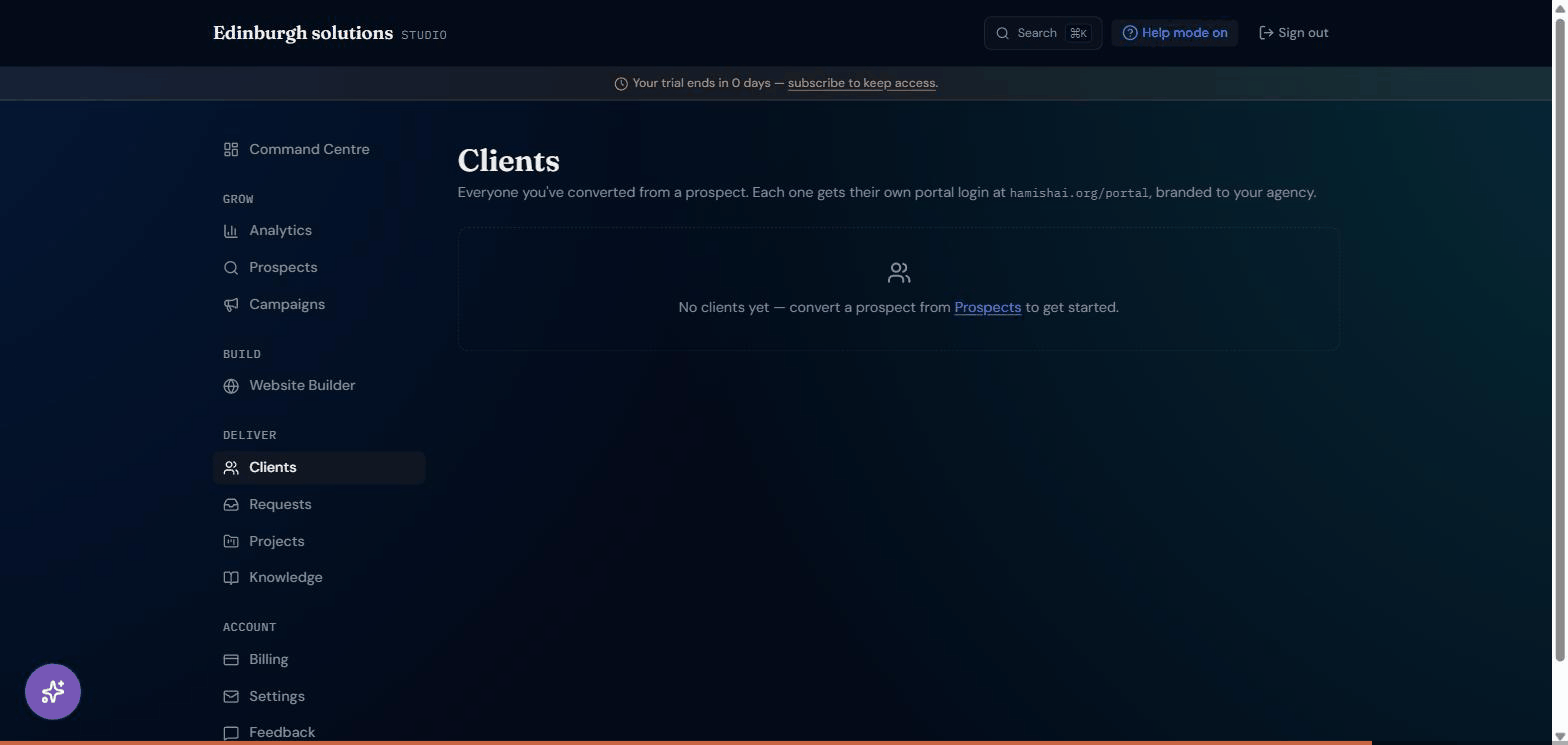
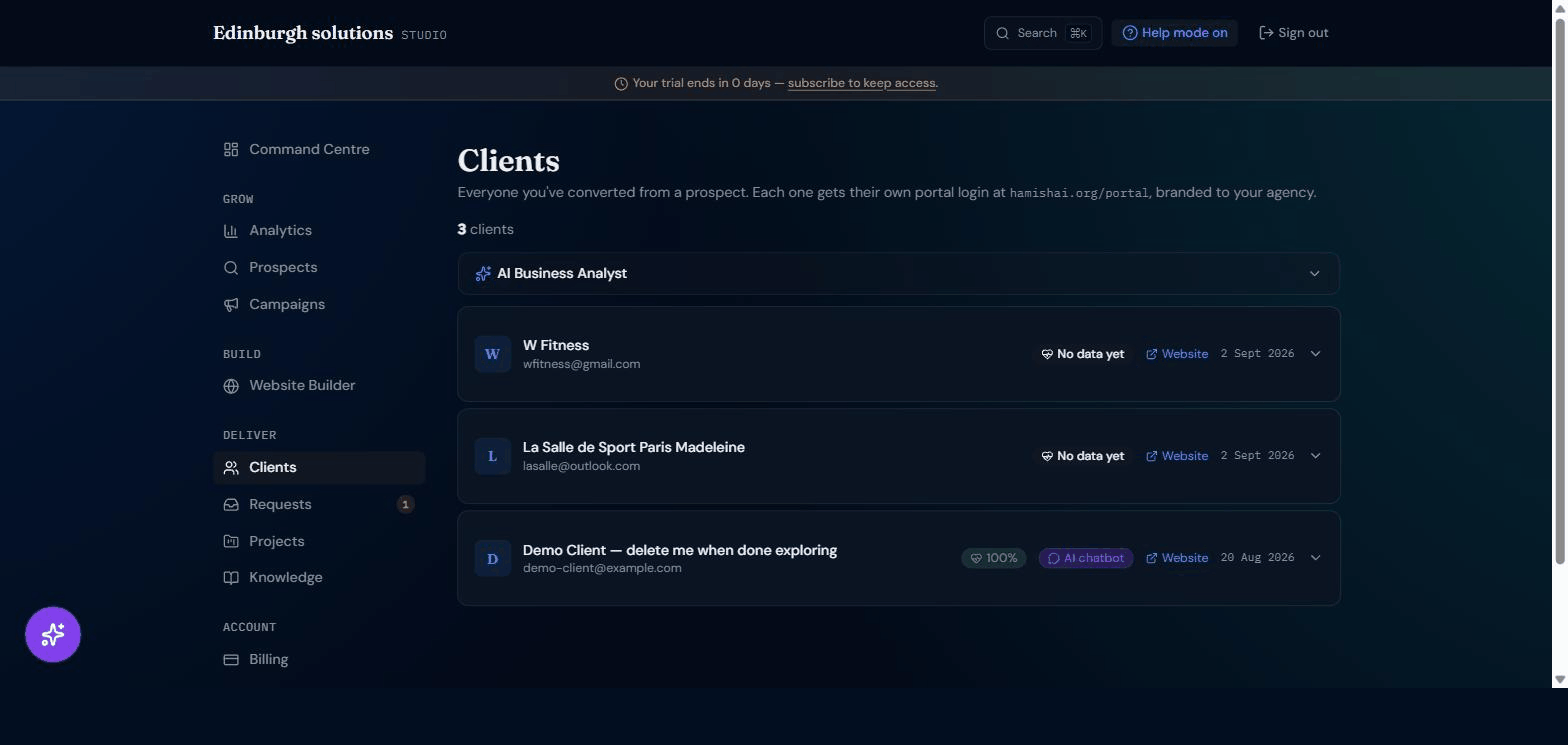
Add a real "Charge" step to the Studio tour, recapture Deliver with real data
Two changes, same root cause resolved:

1. Added "Charge" (05) — direct feedback asked for a step on charging
   clients. Captured live from the real production account: the
   per-client "Invoices" section, honestly showing "Connect Stripe in
   Settings before you can invoice this client" (the real, current state
   — Stripe Connect isn't set up for this account yet), not a staged
   connected state. Caption explains the real mechanism (own Stripe
   account, payments go straight to the tenant, never through Studio).

2. Recaptured "Deliver" (04) — its original screenshot showed Clients'
   empty state, which is exactly what a separate real bug (an RLS policy
   recursion between clients and client_members, fixed via direct SQL
   this session — see conversation, not a code change) was quietly
   causing: converted clients existed but couldn't be read back. Direct
   feedback flagged this specifically ("hesitant that our image on the
   homepage has no clients in it"). Now fixed and confirmed live, so
   this step shows the real, populated Clients list — 3 real clients,
   not an empty state.

Both new screenshots came from Claude in Chrome's real screenshot tool
(save_to_disk) reporting the wrong, inconsistent resolution twice more
this session — same known issue as the Analyse step's own commit. Used
the same proven gif_creator record → export → ffmpeg-extract pipeline
instead, but this time the captured height (688px) fell short of the
[…]

diff --git a/src/components/platform-preview/studio-tour.tsx b/src/components/platform-preview/studio-tour.tsx
@@ -2,7 +2,7 @@
 
 import { useState } from "react";
 import Image from "next/image";
-import { ArrowLeft, ArrowRight, CheckCircle2, Circle, Search, Sparkles, Globe, Users, BookOpen, ChartColumn } from "lucide-react";
+import { ArrowLeft, ArrowRight, CheckCircle2, Circle, Search, Sparkles, Globe, Users, Receipt, BookOpen, ChartColumn } from "lucide-react";
 
 // Real product screenshots, not the hand-built mockup this replaced (the
 // old JourneyExplorer — deleted alongside this file landing). Captured
@@ -27,6 +27,17 @@ import { ArrowLeft, ArrowRight, CheckCircle2, Circle, Search, Sparkles, Globe, U
 // (hamishai.org/studio/prospects), the same prospect already shown in
 // Find's own screenshot (La Salle de Sport Paris Madeleine), expanded to
 // its real Research tab.
+//
+// Deliver's screenshot recaptured, and Charge (05) added, later the same
+// day — the original Deliver capture showed Clients' empty state ("No
+// clients yet"), because at the time that screenshot was taken, a real
+// production bug (an RLS policy recursion — fixed via direct SQL, not in
+// this repo) meant converted clients genuinely couldn't be read back,
+// even though they existed. Once that was fixed and confirmed live, both
+// this step's screenshot and Charge's were captured fresh — Deliver now
+// shows the real, populated Clients list, and Charge shows the real
+// per-client Invoices section, honestly reflecting Stripe not being
+// connected yet rather than staging a fake connected state.
 const steps = [
   {
     id: "find",
@@ -66,24 +77,34 @@ const steps = [
     image: "/images/platform/studio-tour/04-deliver-clients.png",
     heading: "Deliver through a branded client portal",
     body: "Convert a prospect and they get their own portal login — under your agency's name, never Studio's.",
-    alt: "Studio's Clients screen: an empty state reading 'No clients yet — convert a prospect from Prospects to get started,' with a note that each client gets their own portal login at hamishai.org/portal, branded to the agency.",
+    alt: "Studio's Clients screen showing 3 real clients: W Fitness, La Salle de Sport Paris Madeleine, and a demo client, each with their own portal login at hamishai.org/portal, branded to the agency.",
+  },
+  {
+    id: "charge",
+    number: "05",
+    label: "Charge",
+    icon: Receipt,
+    image: "/images/platform/studio-tour/05-charge-invoices.png",
+    heading: "Invoice clients through your own Stripe account",
+    body: "Connect your own Stripe account once in Settings, then invoice any client directly from their card — payments go straight to you, not through Studio.",
+    alt: "Studio's Invoices section on a client's card, reading 'Connect Stripe in Settings before you can invoice this client' — the real prompt shown before a Stripe account is connected.",
   },
   {
     id: "support",
-    number: "05",
+    number: "06",
     label: "Support",
     icon: BookOpen,
-    image: "/images/platform/studio-tour/05-support-knowledge.png",
+    image: "/images/platform/studio-tour/06-support-knowledge.png",
     heading: "Power client support with a knowledge base",
     body: "Add facts about a client's business once, and their own AI support agent can answer instantly instead of every question turning into a request.",
     alt: "Studio's Knowledge base screen, with Add entry and Import from document buttons above an empty state explaining that entries power clients' AI Copilot and support agent.",
   },
   {
     id: "measure",
-    number: "06",
+    number: "07",
     label: "Measure",
     icon: ChartColumn,
-    image: "/images/platform/studio-tour/06-measure-performance.png",
+    image: "/images/platform/studio-tour/07-measure-performance.png",
     heading: "See real AI usage, not a projection",
     body: "Every AI call your agency makes — success rate, latency, and cost — tracked from your own Command Centre, alongside a setup checklist for what's still left to do.",
     alt: "Studio's Command Centre performance panel: 100% success rate, 1.6s median latency, and an estimated 30-day cost of £0.01 across 4 calls, broken down by AI Business Analyst and Studio AI Assistant, above a Getting Set Up checklist.",
